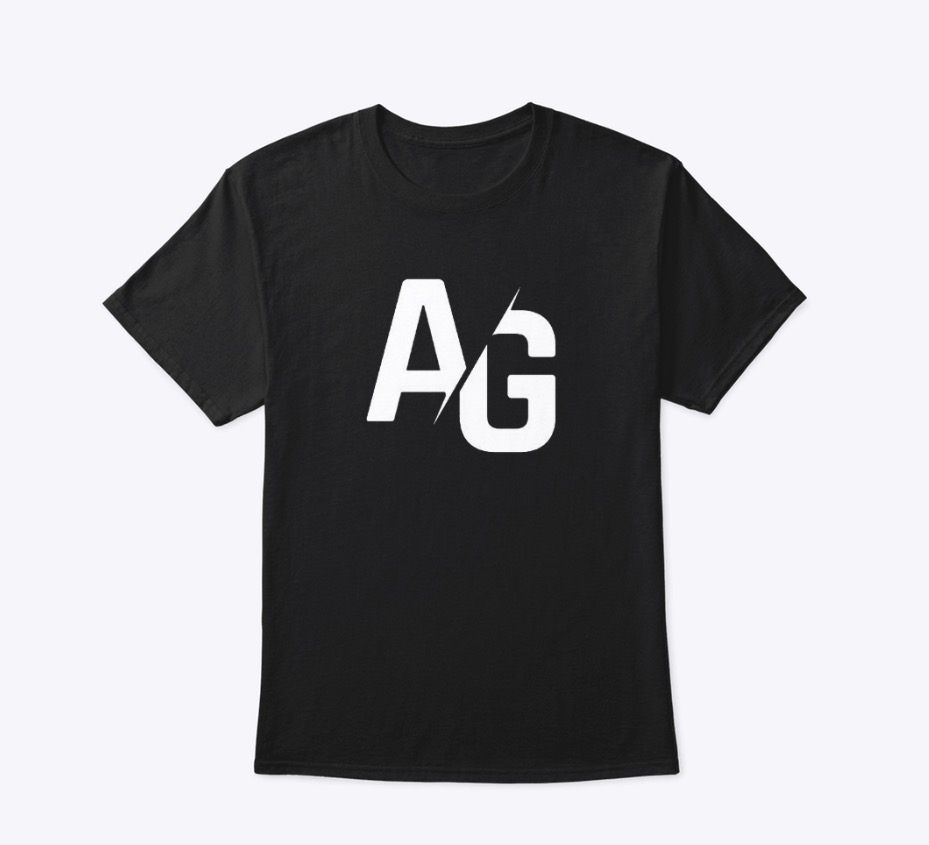
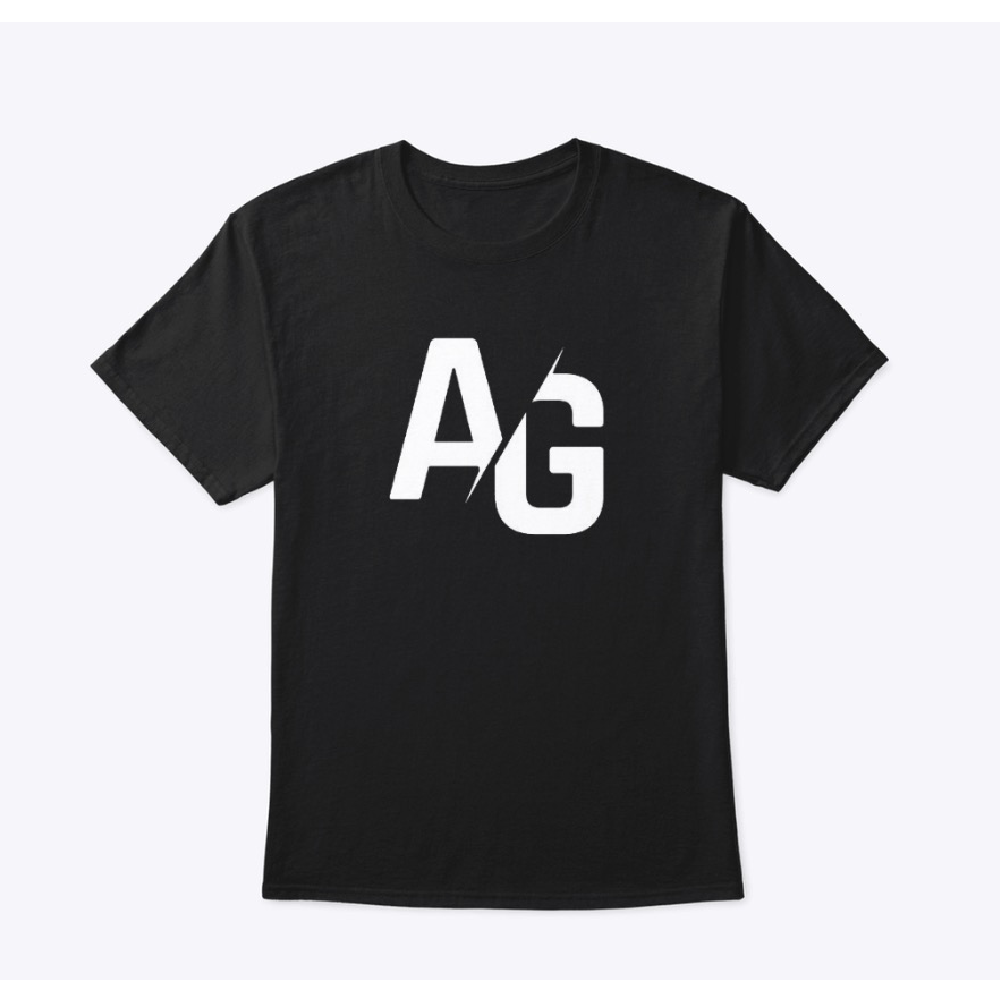
shop

diff --git a/shop.html b/shop.html
@@ -6,8 +6,46 @@ layout: default
 <html>
     <head>
         <title>Shop</title>
+        <style>
+            .textheader {font-family: 'Bebas Neue'; background-color: rgb(37, 37, 37); color: white;padding: 15px; text-align: left; font-size: 50px;}
+            .parallax-agent-img {background-image: url('./assets/img/agentbanner2.png'); min-height: 300px;background-attachment: fixed;background-position: center;background-repeat: no-repeat;background-size: cover;}
+            @media only screen and (max-device-width: 1366px) {.parallax {background-attachment: scroll;}}
+            .container {position: relative;width: 20%;float: left;}
+            .image {display: block;width: 100%;height: auto;}
+            .overlay {position: absolute;top: 0;bottom: 0;left: 0;right: 0;height: 100%;width: 100%;opacity: 0;transition: .5s ease;background-color: rgb(51, 51, 51);}
+            .container:hover .overlay {opacity: 0.9;}
+            .text {font-family: 'Bebas Neue', cursive;;color: white;font-size: 20px;position: absolute;top: 50%;left: 50%;-webkit-transform: translate(-50%, -50%);-ms-transform: translate(-50%, -50%);transform: translate(-50%, -50%);text-align: center; color: white;}
+        </style>
     </head>
     <body>
-        <!--Mabye use iframes?-->
+        <div class="parallax-agent-img"></div>
+        <div id="merchitems">
+            <div class="textheader">Merch</div>
+            <div class="container" id="tshirt">
+                <img src="./assets/img/merch/sources/2F3BF2DB-E65E-4884-9959-12D21E2E9758.jpeg" class="image">
+                <div class="overlay">
+                    <div class="text">T-Shirt<br>$10<br>Coming Soon</div>
+                </div>
+            </div>
+            <div class="container" id="tshirt2">
+                <img src="./assets/img/merch/sources/FC827331-A3A2-4E96-8EE0-B7320AF1328C.jpeg" class="image">
+                <div class="overlay">
+                    <div class="text">T-Shirt<br>$10<br>Coming Soon</div>
+                </div>
+            </div>
+            <div class="container" id="tshirt2">
+                <img src="./assets/img/merch/sources/BB732EF4-1880-4207-B670-AEFF6BE0A20A.jpeg" class="image">
+                <div class="overlay">
+                    <div class="text">Hoodie<br>$15<br>Coming Soon</div>
+                </div>
+            </div>
+            <div class="container" style="width: 40%;">
+                <img src="./assets/img/merch/hoodie+tshirt.png" class="image">
+                <div class="overlay">
+                    <div class="text">Hoodie + TShirt Combo<br>$20<br>Coming Soon</div>
+                </div>
+            </div>
+        </div>
+        <div class="parallax-agent-img"></div>
     </body>
 </html>

diff --git a/_layouts/default.html b/_layouts/default.html
@@ -40,9 +40,9 @@
             <a class="fa fa-instagram" href="https://www.instagram.com/agent.ggs/" target="_blank"></a>
             <a href="https://www.youtube.com/c/agentgamingesports" target="_blank"><img class="youtube" src="../assets/img/youtube.png" height="15px" width="20px"></a>
             
+            <a class="nav-link nav-link-ltr" href="/contact" style="float: right;">Contact</a>
             <a class="nav-link nav-link-ltr" href="/about" style="float: right;">About Us</a>
             <a class="nav-link nav-link-ltr" href="/sponsors" style="float: right;">Sponsors</a>
-            <a class="nav-link nav-link-ltr" href="/contact" style="float: right;">Contact</a>
             <a class="nav-link nav-link-ltr" href="/shop" style="float: right;">Shop</a>
             <a class="nav-link nav-link-ltr" href="https://agentgamingesports.com" style="float: right;">Home</a>
         </div>
